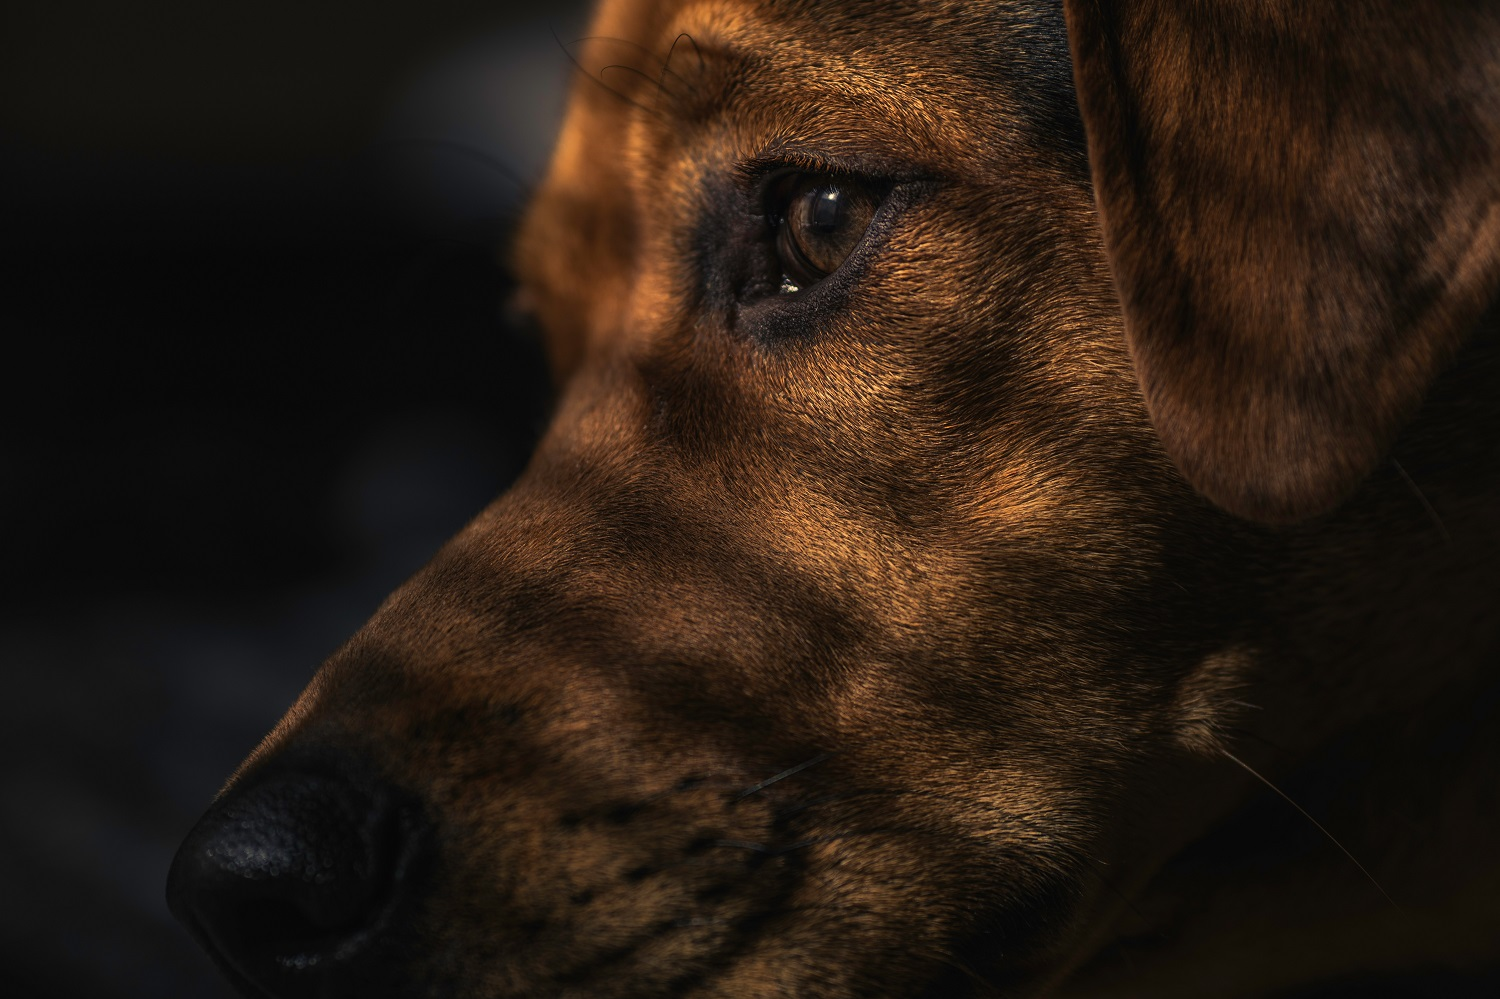
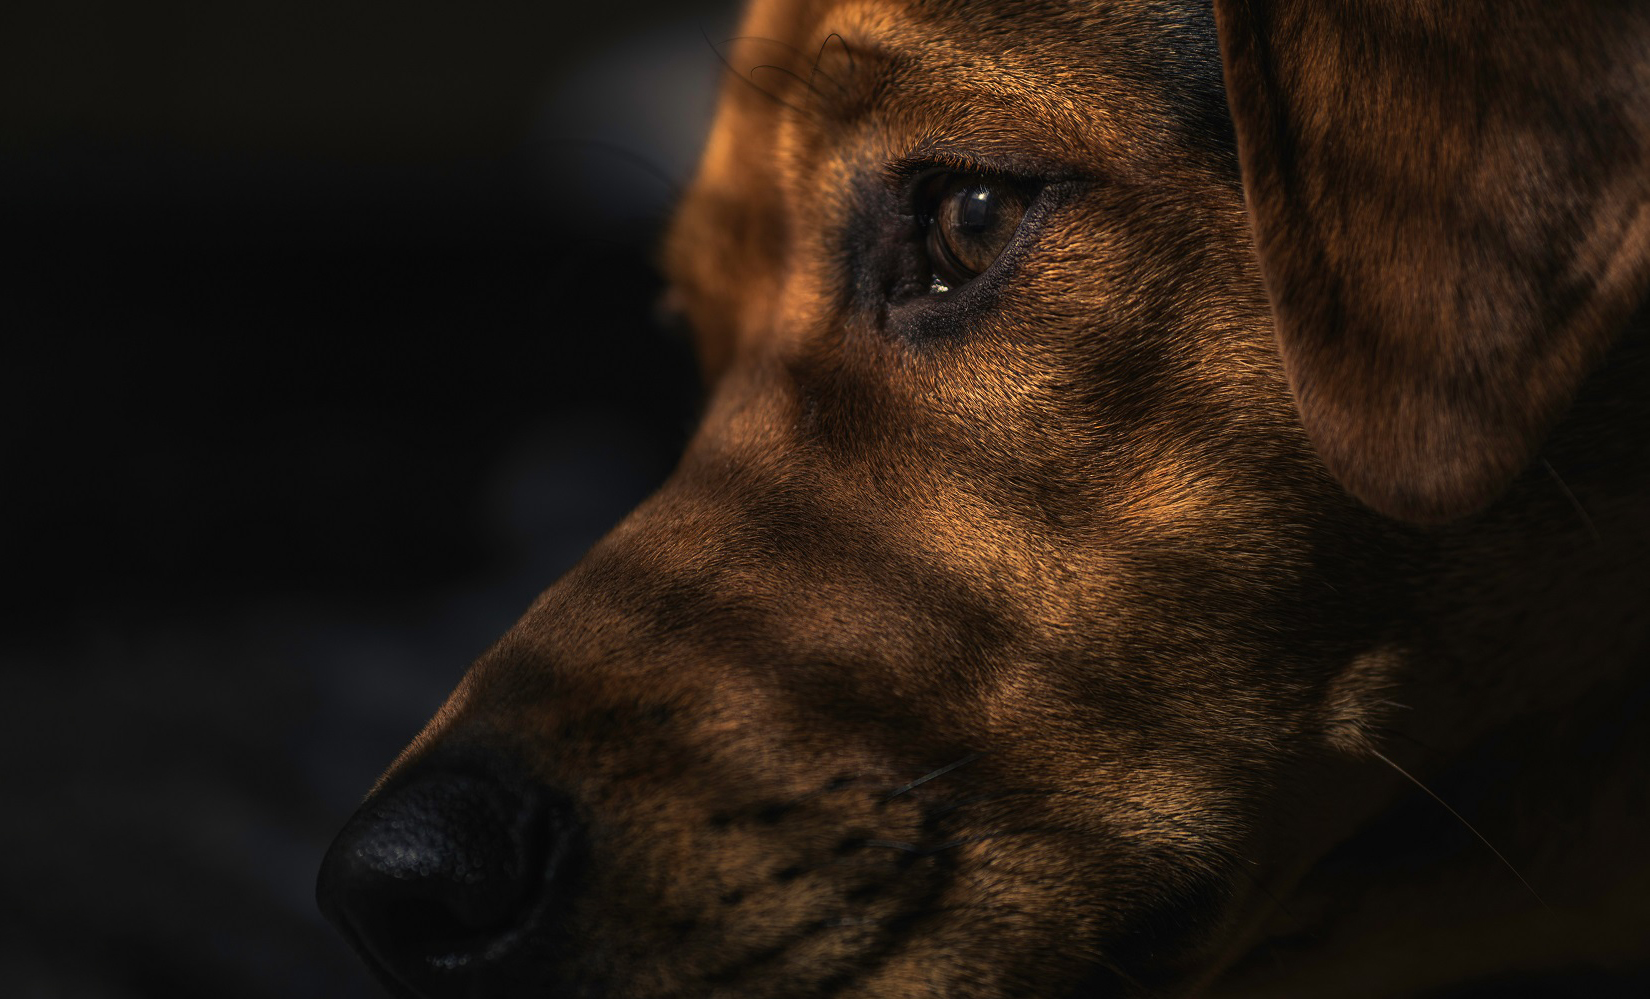
added background image and other updates

diff --git a/styles/stylesheet.css b/styles/stylesheet.css
@@ -3,17 +3,14 @@
 }
 
 .header {
-  max-height: 400px;
-  background-position: center;
+  height: 400px;
+  width: 100%;
+  background: linear-gradient(5deg, #9bc344, darkBlue);
+  background-position: top right;
   background-repeat: no-repeat;
   background-size: cover;
-  position: relative;
-  background-image: image("images/header-image.jpg");
+  background-image: url('../images/header-image.jpg');
   overflow: hidden;
-}
-
-.header-img {
-  width: 100%;
 }
 
 .header-checkout {
@@ -28,19 +25,17 @@
   font-size: .7em;
   text-decoration: none;
   color: #fff;
-}
-
-.header-checkout img {
-  padding-right: 10px;
+  width: 10%;
 }
 
 .header-checkout a:link {
   text-decoration: none;
-  padding: 4px 8px 4px 8px;
+  text-align: center;
+  display: block;
+  padding: 0.3rem 0.8rem 0.3rem 0.8rem;
   background-color: #9bc344;
   border-radius: 1px;
   border: none;
-  width: 10%;
   color: #fff;
 }
 
@@ -72,13 +67,13 @@ ul {
 
 li {
   display: inline;
-  padding-right: 10px;
+  padding-right: 0.8rem;
 }
 
 li a:link {
   font-family: 'Public Sans', sans-serif;
   font-weight: 700;
-  font-size: .8em;
+  font-size: 0.8em;
   text-decoration: none;
   color: #103861;
 }
@@ -142,7 +137,7 @@ h5 {
 p {
   font-family: 'Public Sans', sans-serif;
   font-weight: 300;
-  font-size: .8em;
+  font-size: 0.8em;
   line-height: 1.2em;
 }
 
@@ -157,14 +152,14 @@ p {
 
 .intro-container h2 p {
   float: right;
-  padding: 10px 10px 80px 0px;
+  padding: 0.8rem 0.8rem 3rem 0;
 }
 
 .dog-profiles {
   display: flex;
   flex-flow: row wrap;
   justify-content: start;
-  padding-top: 20px;
+  padding-top: 2rem;
 }
 
 .dog-profiles section {
@@ -183,11 +178,12 @@ button {
 }
 
 .dog-profiles a {
+  display: block;
   font-family: 'Public Sans', sans-serif;
   font-weight: 700;
   font-size: .7em;
-  padding: 4px 60px 4px 50px;
-  width: 100%;
+  text-align: center;
+  padding: 0.3rem 3rem 0.3rem 3rem;
   background-color: #9bc344;
   border-radius: 1px;
   text-decoration: none;
@@ -210,21 +206,21 @@ button {
 }
 
 .profile-info {
-  padding: 0px 8px 10px 8px;
+  padding: 0 0.8rem 1rem 0.8rem;
 }
 
 .see-more {
   height: 10%;
-  width: 100%;
+  width: 80%;
   text-align: center;
-  padding: 40px;
+  padding: 3rem;
 }
 
 .see-more a:link {
   font-family: 'Public Sans', sans-serif;
   font-weight: 700;
-  font-size: .7em;
-  padding: 8px 40px 8px 40px;
+  font-size: 0.7em;
+  padding: 0.8rem 2rem 0.8rem 2rem;
   background-color: #ccc;
   border-radius: 1px;
   text-decoration: none;
@@ -290,7 +286,7 @@ button {
 
 .blog-article h3 p{
   float: right;
-  padding: 0px 10px 80px 0px;
+  padding: 0 1rem 3rem 0;
 }
 
 form {
@@ -299,14 +295,14 @@ form {
 
 input {
   margin: 0.5rem 0rem 1.5rem 0rem;
-  padding: 4px;
+  padding: 0.3rem;
   width: 65%;
   display: block;
 }
 
 select {
   margin: 0.5rem 0rem 1.5rem 0rem;
-  padding: 4px;
+  padding: 0.3rem;
   width: 30%;
   display: block;
 }
@@ -338,7 +334,7 @@ input[type=submit] {
   font-weight: 700;
   font-size: .7em;
   margin: 3rem;
-  padding: 4px 8px 4px 8px;
+  padding: 0.3rem 1rem 0.3rem 1rem;
   background-color: #9bc344;
   border-radius: 1px;
   border: none;
@@ -367,7 +363,7 @@ input[type=submit]:active {
 
 .dogs-adopted img {
   float: left;
-  padding-right: 10px;
+  padding-right: 1rem;
   margin-top: 0.8rem;
 }
 
@@ -382,7 +378,7 @@ input[type=submit]:active {
   clear: both;
   background-color: #103861;
   text-align: center;
-  padding: 40px;
+  padding: 2rem;
   color: #fff;
 }
 
@@ -392,10 +388,10 @@ input[type=submit]:active {
 
 .footer-block li {
   display: inline;
-  padding-right: 4px;
+  padding-right: 0.3rem;
   font-family: 'Public Sans', sans-serif;
   font-weight: 700;
-  font-size: .8em;
+  font-size: 0.8em;
 }
 
 .footer-block a:link {
@@ -417,32 +413,37 @@ input[type=submit]:active {
 
 /* ----- Media Queries ----- */
 /* For mobile */
-@media screen and (max-width: 576px) and (orientation: portrait){
+@media screen and (max-width: 576px) {
   .container-home {
     width: 95%;
-    margin: 1rem;
+    margin: 1.2rem;
+  }
+  .header {
+    height: 300px;
+    background-position: center;
   }
   .header-logo {
     width: 60%;
     position: absolute;
-    top: 35%;
-    left: 4%;
+    top: 15%;
+    left: 7%;
   }
   .header h1 {
     font-size: 0rem;
   }
   .header-checkout {
-    top: 65%;
-    left: 4%;
+    top: 25%;
+    left: 7%;
+    width: 20%;
   }
   ul {
-    margin: 1rem;
+    margin: 1.2rem;
   }
   .dog-profiles section {
-    width: 70%;
+    width: 75%;
   }
   .see-more {
-    min-width: 100%;
+    width: 95%;
     text-align: left;
     padding: 1.5rem 0 1.5rem 0;
   }
@@ -459,7 +460,7 @@ input[type=submit]:active {
   }
 }
 
-@media screen and (max-width: 812px) and (orientation: landscape){
+@media screen and (min-width: 577px) and (max-width: 767px) {
   .container-home {
     width: 95%;
     margin: 1rem;
@@ -467,15 +468,16 @@ input[type=submit]:active {
   .header-logo {
     width: 60%;
     position: absolute;
-    top: 35%;
+    top: 15%;
     left: 4%;
   }
   .header h1 {
     font-size: 0rem;
   }
   .header-checkout {
-    top: 65%;
+    top: 50%;
     left: 4%;
+    width: 20%;
   }
   ul {
     margin: 1rem;
@@ -484,7 +486,7 @@ input[type=submit]:active {
     width: 70%;
   }
   .see-more {
-    min-width: 100%;
+    width: 100%;
     text-align: left;
     padding: 1.5rem 0 1.5rem 0;
   }
@@ -503,8 +505,7 @@ input[type=submit]:active {
 
 
 /* For tablet */
-@media screen and (min-width: 701px) and (max-width: 900px)
-and (orientation: portrait){
+@media screen and (min-width: 768px) and (max-width: 900px){
   .container-home {
     width: 60%;
     float: left;
@@ -513,27 +514,31 @@ and (orientation: portrait){
     width: 35%;
   }
   .header-logo {
-  text-align: left;
-  position: absolute;
-  top: 10%;
-  left: 5%;
-  float: left;
-  clear: both;
+    text-align: left;
+    position: absolute;
+    top: 10%;
+    left: 5%;
+    float: left;
+    clear: both;
+  }
+  .see-more {
+    width: 75%;
   }
   .blog-preview {
     display: flex;
     flex-flow: column wrap;
+    border-top: none;
     border-left: 1px dotted #ccc;
     padding-left: 1rem;
     width: 25%;
     float: right;
-    margin: 3rem 0 0 4rem;
+    margin: 2.3rem 0 0 4rem;
   }
 }
 
 
 /* For desk/laptop */
-@media screen and (min-width: 901px) and (orientation: landscape){
+@media screen and (min-width: 901px) {
   .container-home {
     width: 60%;
     float: left;
@@ -542,12 +547,12 @@ and (orientation: portrait){
     width: 25%;
   }
   .header-logo {
-  text-align: left;
-  position: absolute;
-  top: 10%;
-  left: 5%;
-  float: left;
-  clear: both;
+    text-align: left;
+    position: absolute;
+    top: 10%;
+    left: 5%;
+    float: left;
+    clear: both;
   }
   .blog-preview {
     display: flex;

diff --git a/blog.html b/blog.html
@@ -11,7 +11,6 @@
   <body>
     <header>
       <div class="header">
-          <img class="header-img" src="images/header-image.jpg" alt="Close-up of dog's head">
           <div class="header-logo">
             <a href="index.html"><img src="images/adoptadog-logo.svg" alt="Adopt-a-dog logo"></a>
             <h1>Seattle's premiere dog adoption agency</h1>

diff --git a/checkout.html b/checkout.html
@@ -11,7 +11,6 @@
   <body>
     <header>
       <div class="header">
-          <img class="header-img" src="images/header-image.jpg" alt="Close-up of dog's head">
           <div class="header-logo">
             <a href="index.html"><img src="images/adoptadog-logo.svg" alt="Adopt-a-dog logo"></a>
             <h1>Seattle's premiere dog adoption agency</h1>

diff --git a/dogs.html b/dogs.html
@@ -11,7 +11,6 @@
   <body>
     <header>
       <div class="header">
-          <img class="header-img" src="images/header-image.jpg" alt="Close-up of dog's head">
           <div class="header-logo">
             <a href="index.html"><img src="images/adoptadog-logo.svg" alt="Adopt-a-dog logo"></a>
             <h1>Seattle's premiere dog adoption agency</h1>

diff --git a/index.html b/index.html
@@ -11,7 +11,6 @@
   <body>
     <header>
       <div class="header">
-          <img class="header-img" src="images/header-image.jpg" alt="Close-up of dog's head">
           <div class="header-logo">
             <a href="index.html"><img src="images/adoptadog-logo.svg" alt="Adopt-a-dog logo"></a>
             <h1>Seattle's premiere dog adoption agency</h1>
